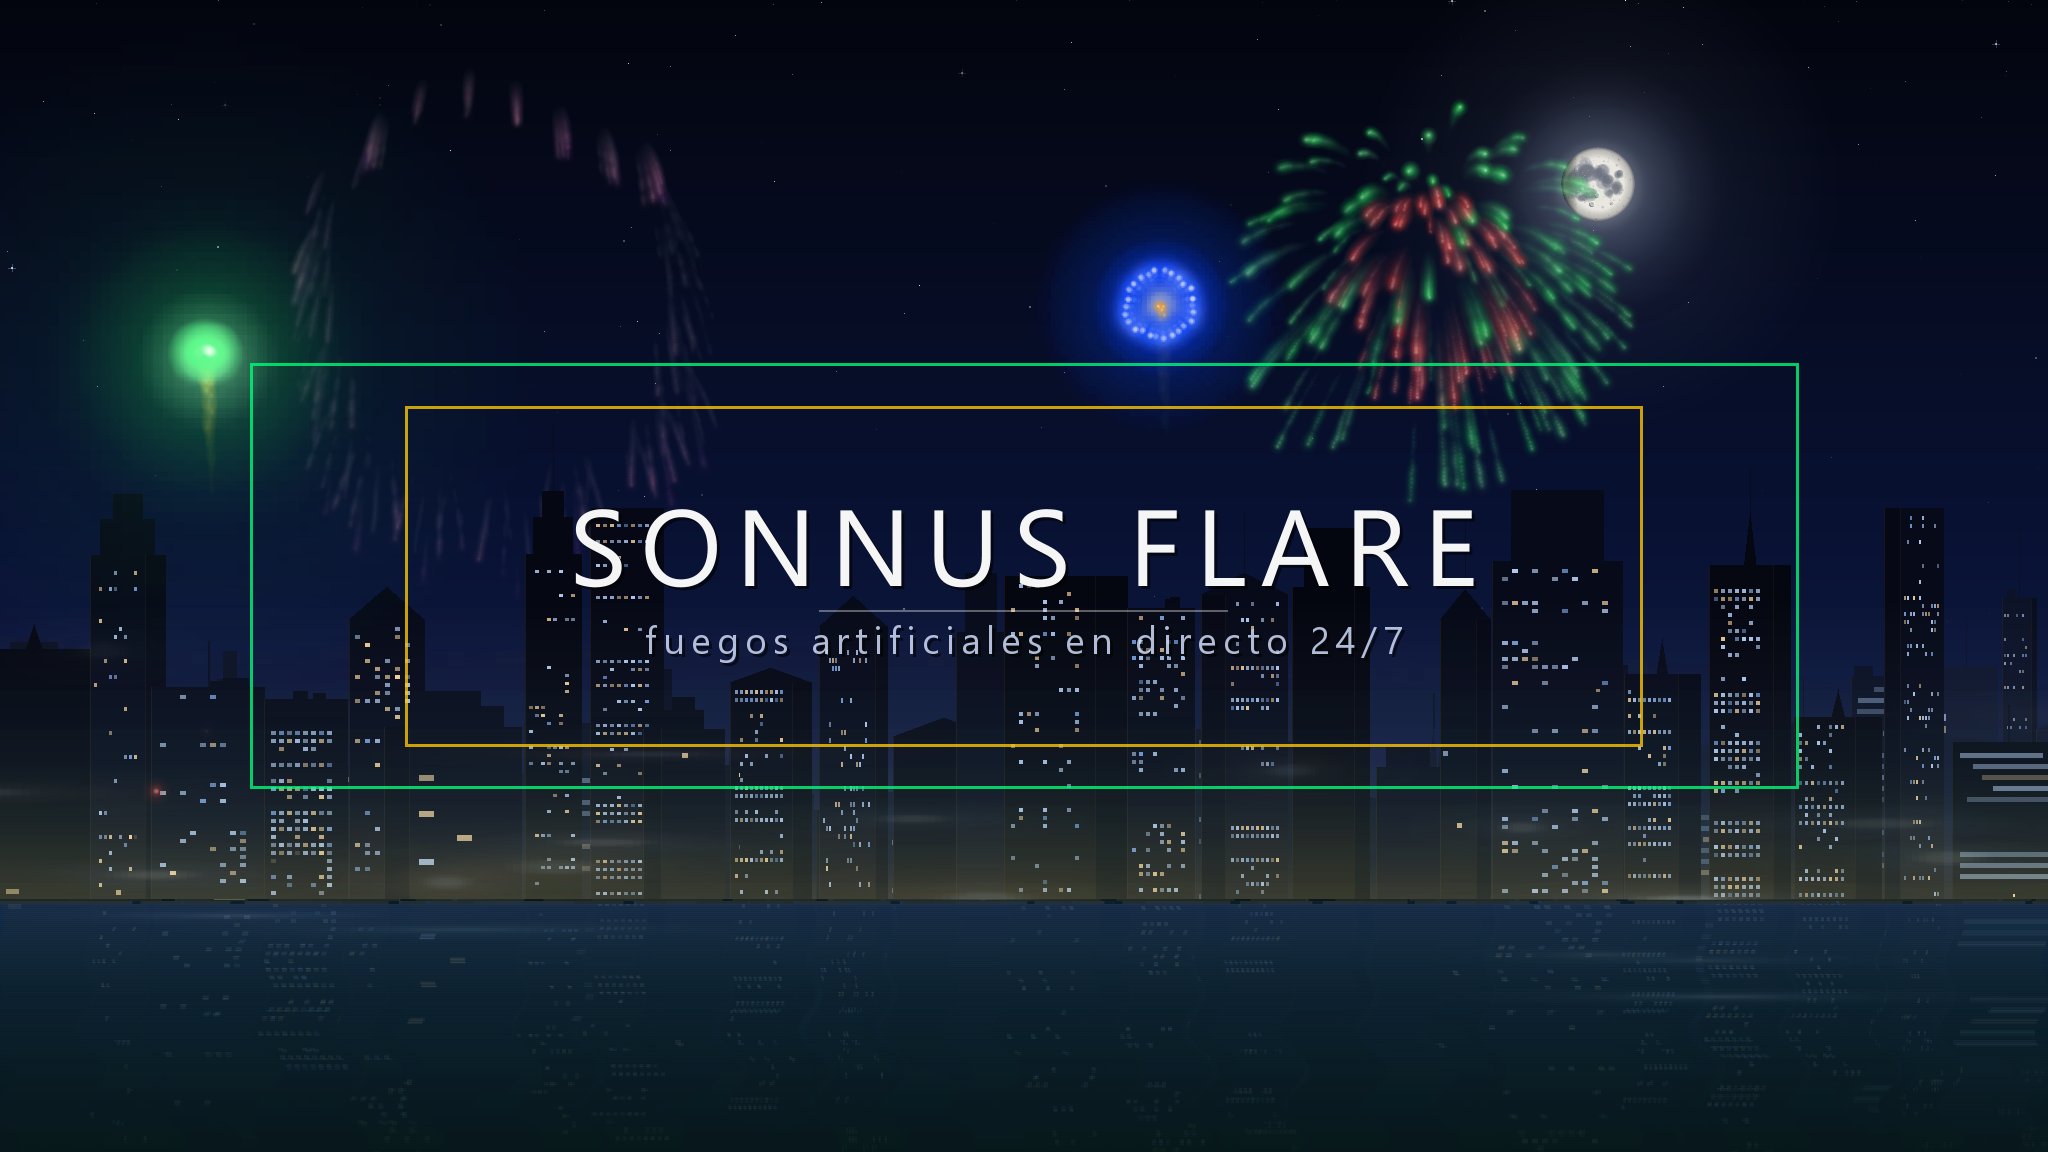
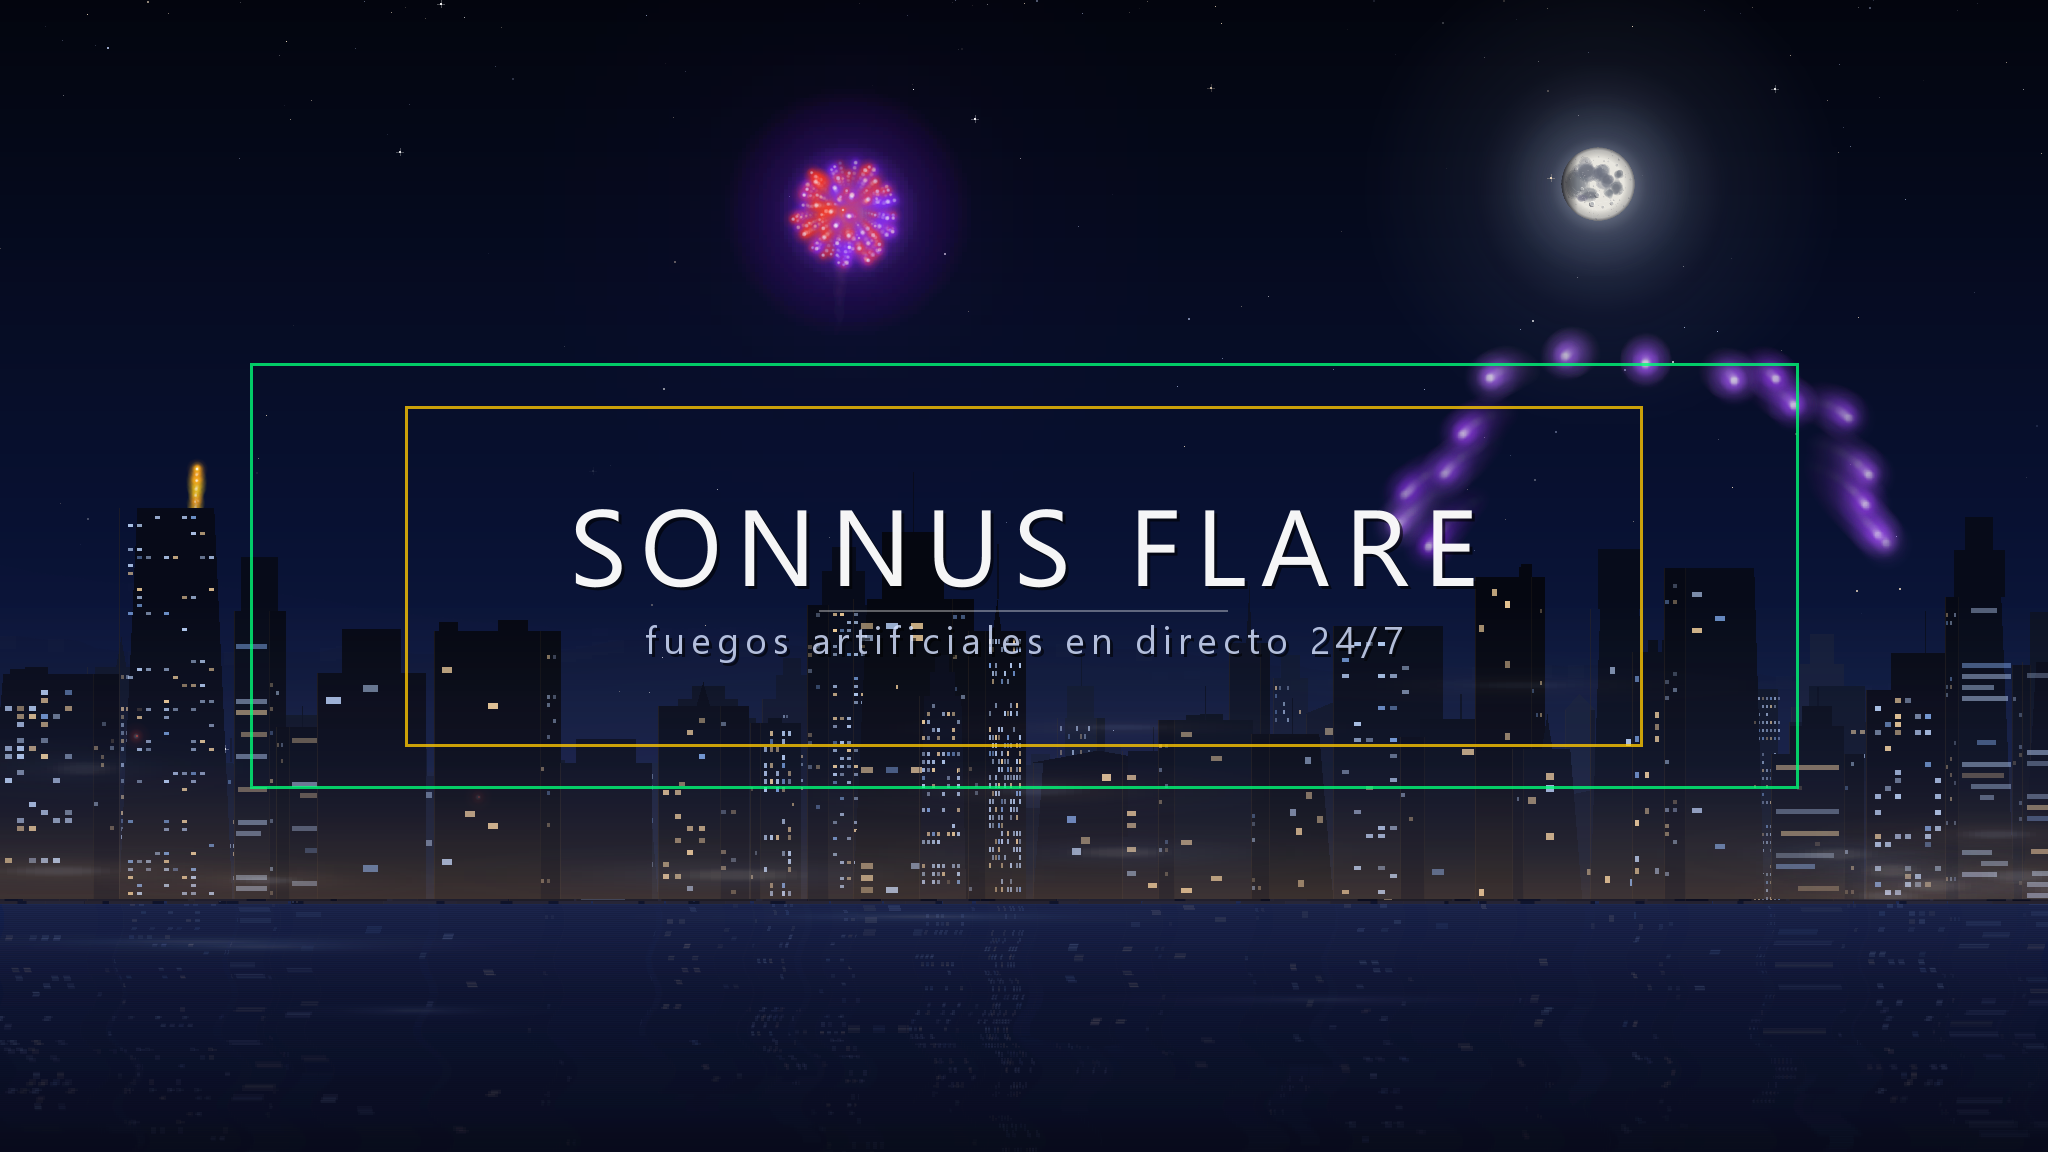
Ciudad al estilo Hong Kong: formas, volumen creible y mas luz
Tres correcciones sobre lo anterior, con Hong Kong de referencia.

NO TODOS SON CAJAS. El cuerpo pasa de rectangulo a poligono: una de cada
cuatro torres se afila al subir y otras retranquean de golpe a media altura.
A esta distancia la silueta pesa mas que cualquier detalle de fachada, y una
fila de cajas se lee como cajas por muy bien iluminadas que esten.

EL VOLUMEN NO CONVENCIA, Y ESE ERA EL PORQUE. La cara lateral era una banda
de color plano, o sea una raya pintada encima. Ahora lleva sus propias
ventanas, en escorzo: columnas mas juntas y luz mas floja, porque esa cara se
ve de canto y recibe menos. Con eso deja de ser una raya y pasa a ser otra
cara del edificio.

DEMASIADO APAGADA. Una ciudad grande de noche esta encendida, no a oscuras
con luces sueltas. Densidad de ventanas casi al doble, menos plantas
enteras a oscuras, menos edificios del tipo apagado y los que quedan con dos
a seis luces en vez de una.

Coste: 16,95 ms por fotograma y 83 ms de horneado, sin cambio apreciable: lo
que se anade se dibuja una sola vez.

diff --git a/src/j4f/Escenario.java b/src/j4f/Escenario.java
@@ -744,7 +744,22 @@ public class Escenario {
                     new Point2D.Float(0, cima), new Point2D.Float(0, baseY),
                     new float[]{0f, 0.62f, 1f},
                     new Color[]{base, base, pie}));
-            g.fillRect(x, cima, w, h);
+
+            // Forma del cuerpo. No todos los edificios son cajas: en una
+            // ciudad como Hong Kong abundan las torres que se afilan al subir
+            // y las que retranquean a media altura. En la linea del cielo esa
+            // diferencia se nota mas que cualquier detalle de fachada.
+            double merma = 0;
+            int alturaRetranqueo = 0;
+            double mermaRetranqueo = 0;
+            double forma = Azar.entre(0.0, 1.0);
+            if (forma < 0.28 && w > 10) {
+                merma = Azar.entre(0.14, 0.38);
+            } else if (forma < 0.46 && w > 14 && h > 40) {
+                alturaRetranqueo = (int) Math.round(h * Azar.entre(0.35, 0.65));
+                mermaRetranqueo = Azar.entre(0.16, 0.34);
+            }
+            rellenarCuerpo(g, x, cima, w, h, merma, alturaRetranqueo, mermaRetranqueo);
 
             // Cara lateral: un edificio visto de esquina ensena dos caras, y
             // la que no mira al observador va mas oscura. Es lo que le da
@@ -759,6 +774,11 @@ public class Escenario {
                 int xl = ladoDerecho ? x + w - anchoLado : x;
                 g.setColor(Destello.mezclar(base, EDIFICIO_OSCURO, 0.42f));
                 g.fillRect(xl, cima, anchoLado, h);
+                // La cara de lado lleva sus propias ventanas, comprimidas y
+                // mas apagadas. Sin ellas la banda oscura se lee como una
+                // raya pintada encima y no como otra cara del edificio: eso
+                // es lo que hacia que el volumen no convenciera.
+                pintarVentanasLado(g, xl, cima, anchoLado, h, pisoAlto, cercania, calima);
                 // Arista viva entre las dos caras: sin ella el cambio de tono
                 // se lee como una mancha y no como un canto.
                 g.setColor(Destello.alfa(
@@ -791,6 +811,54 @@ public class Escenario {
                     ? (int) Math.round(w * Azar.entre(0.45, 0.80))
                     : w + (int) Math.round(Azar.entre(-2.0, 4.0 + 4.0 * cercania));
         }
+    }
+
+    /**
+     * Rellena el cuerpo del edificio con su forma.
+     *
+     * Un poligono en vez de un rectangulo. Es lo unico que separa una torre
+     * afilada de una caja, y a esta distancia esa silueta pesa mas que
+     * cualquier detalle de la fachada.
+     */
+    private void rellenarCuerpo(Graphics2D g, int x, int cima, int w, int h,
+            double merma, int alturaRetranqueo, double mermaRetranqueo) {
+        if (merma <= 0 && alturaRetranqueo <= 0) {
+            g.fillRect(x, cima, w, h);
+            return;
+        }
+        java.awt.Polygon cuerpo = new java.awt.Polygon();
+        int base = cima + h;
+        cuerpo.addPoint(x, base);
+        if (alturaRetranqueo > 0) {
+            int yr = base - alturaRetranqueo;
+            int s = (int) Math.round(w * mermaRetranqueo * 0.5);
+            cuerpo.addPoint(x, yr);
+            cuerpo.addPoint(x + s, yr);
+            cuerpo.addPoint(x + s, cima);
+            cuerpo.addPoint(x + w - s, cima);
+            cuerpo.addPoint(x + w - s, yr);
+            cuerpo.addPoint(x + w, yr);
+        } else {
+            int s = (int) Math.round(w * merma * 0.5);
+            cuerpo.addPoint(x + s, cima);
+            cuerpo.addPoint(x + w - s, cima);
+        }
+        cuerpo.addPoint(x + w, base);
+        g.fill(cuerpo);
+    }
+
+    /** Cuanto hay que meterse por cada lado a la altura dada. */
+    private static int sangriaEn(int cima, int h, int w, int y,
+            double merma, int alturaRetranqueo, double mermaRetranqueo) {
+        if (alturaRetranqueo > 0) {
+            int yr = cima + h - alturaRetranqueo;
+            return y < yr ? (int) Math.round(w * mermaRetranqueo * 0.5) : 0;
+        }
+        if (merma <= 0) {
+            return 0;
+        }
+        double f = (double) (y - cima) / Math.max(1, h);
+        return (int) Math.round(w * merma * 0.5 * (1 - f));
     }
 
     /**
@@ -892,15 +960,15 @@ public class Escenario {
             if (d < 0.63) {
                 return TIPO_CRISTAL;
             }
-            return d < 0.92 ? TIPO_RESIDENCIAL : TIPO_OSCURO;
+            return d < 0.96 ? TIPO_RESIDENCIAL : TIPO_OSCURO;
         }
-        if (d < 0.42) {
+        if (d < 0.46) {
             return TIPO_RESIDENCIAL;
         }
         if (d < 0.62) {
             return TIPO_OFICINAS;
         }
-        return d < 0.70 ? TIPO_CRISTAL : TIPO_OSCURO;
+        return d < 0.84 ? TIPO_CRISTAL : TIPO_OSCURO;
     }
 
     /**
@@ -948,12 +1016,14 @@ public class Escenario {
             return;
         }
         // La vivienda enciende menos: no todo el mundo esta en casa despierto.
-        double densidad = oficinas ? Azar.entre(0.14, 0.40) : Azar.entre(0.06, 0.20);
+        // Mas encendida que antes. Una ciudad grande de noche esta iluminada,
+        // no apagada con luces sueltas.
+        double densidad = oficinas ? Azar.entre(0.24, 0.56) : Azar.entre(0.14, 0.34);
         boolean porPlantas = oficinas && Azar.probabilidad(0.26);
 
         for (int fy = y + alturaPiso; fy < y + h - vh; fy += alturaPiso) {
             boolean plantaViva = porPlantas && Azar.probabilidad(0.30);
-            if (!plantaViva && Azar.probabilidad(oficinas ? 0.42 : 0.58)) {
+            if (!plantaViva && Azar.probabilidad(oficinas ? 0.24 : 0.40)) {
                 continue;
             }
             for (int c = 0; c < columnas; c++) {
@@ -1005,12 +1075,47 @@ public class Escenario {
         }
     }
 
+    /**
+     * Ventanas de la cara lateral.
+     *
+     * En escorzo: columnas mas juntas y luz mas floja, porque esa cara recibe
+     * menos y se ve de canto. Es lo que convierte la banda oscura en una cara
+     * de verdad.
+     */
+    private void pintarVentanasLado(Graphics2D g, int x, int y, int w, int h,
+            int pisoAlto, double cercania, float calima) {
+        if (w < 3) {
+            return;
+        }
+        int vw = Math.max(1, (int) Math.round(w * 0.16));
+        int paso = vw + Math.max(1, vw);
+        int columnas = Math.max(1, (w - 2) / paso);
+        int vh = Math.max(1, (int) Math.round(pisoAlto * 0.45));
+        for (int fy = y + pisoAlto; fy < y + h - vh; fy += pisoAlto) {
+            if (Azar.probabilidad(0.62)) {
+                continue;
+            }
+            for (int c = 0; c < columnas; c++) {
+                if (!Azar.probabilidad(0.30)) {
+                    continue;
+                }
+                int vx = x + 1 + c * paso;
+                if (vx + vw > x + w - 1) {
+                    continue;
+                }
+                Color luz = colorVentana(Azar.probabilidad(0.55), cercania, calima);
+                g.setColor(Destello.alfa(luz, (int) (luz.getAlpha() * 0.55)));
+                g.fillRect(vx, fy, vw, vh);
+            }
+        }
+    }
+
     /** Edificio casi apagado: cuatro luces sueltas y nada mas. */
     private void pintarLucesSueltas(Graphics2D g, int x, int y, int w, int h,
             int pisoAlto, double cercania, float calima) {
         // Una o dos luces, rara vez tres. Un edificio a oscuras con cinco
         // ventanas encendidas no esta a oscuras.
-        int n = Azar.probabilidad(0.30) ? 0 : Azar.entre(1, 3);
+        int n = Azar.probabilidad(0.12) ? 0 : Azar.entre(2, 6);
         int vw = Math.max(1, (int) Math.round(w * 0.09));
         int vh = Math.max(1, (int) Math.round(pisoAlto * 0.9));
         for (int i = 0; i < n; i++) {
